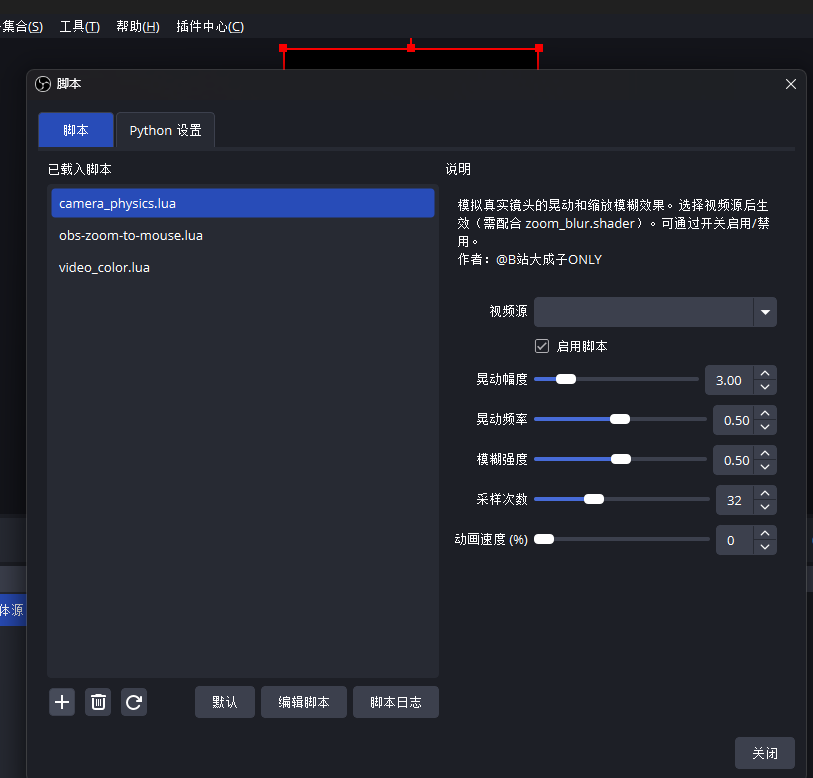
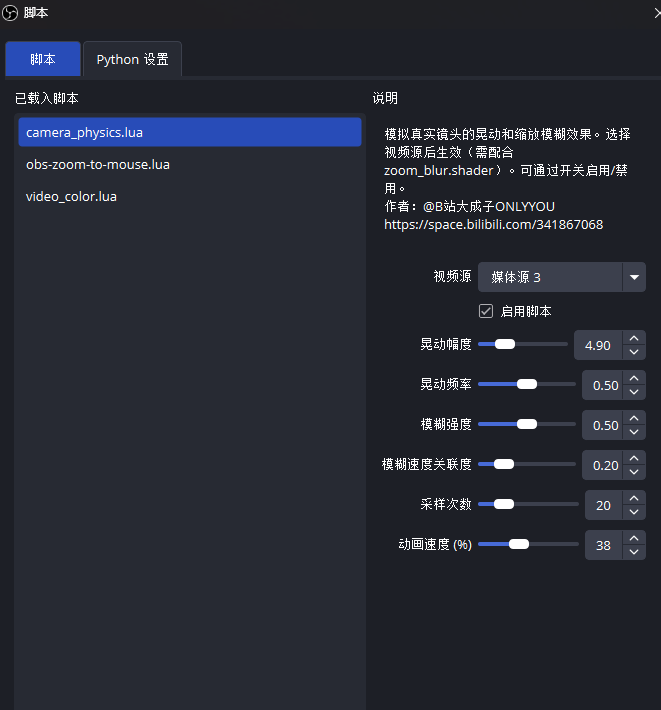
fix: 优化物理镜头的闪亮以及支持解耦晃动和模糊，晃动符合物理特性并增加文档

diff --git a/README.md b/README.md
@@ -7,22 +7,50 @@
 
 ## 功能描述 Features
 
-### camera_physics.lua
+### camera_physics.lua 模拟真实镜头的晃动和缩放模糊效果
+
+#### 功能概述
+此脚本为 OBS 添加了镜头晃动和动态模糊效果，适用于模拟手持相机或增强画面动感。晃动通过物理模型实现，模糊与晃动速度关联，并支持动画效果。
+
 - 模拟真实相机抖动效果
 - 可调节晃动幅度和频率
 - 支持缩放模糊效果
 - 提供开关控制，实时启用/禁用效果
+- 支持模糊和晃动解耦
 
-![camera_physics](https://cdn.z.wiki/autoupload/20250325/KLBl/813X778/camera-physics.png)
+![camera_physics](https://cdn.z.wiki/autoupload/20250325/uiIY/661X710/camera-physics.png)
 
-- 如何配合zoom_blur.shader 使用？ 
-  - 首先安装OBS ShaderFilter，可直接到releases界面使用exe文件进行安装。安装之后的路径在obs根目录下的[path\to\obs-studio\data\obs-plugins\obs-shaderfilter]
-  - zoom_blur.shader位于[path\to\obs-studio\data\obs-plugins\obs-shaderfilter\examples]
-  -在OBS里添加滤镜
-
+#### 安装步骤
+1. 将此脚本文件（.lua）加载到 OBS 的“脚本”菜单。
+2. 首先安装OBS ShaderFilter，可直接到releases界面使用exe文件进行安装。安装之后的路径在obs根目录下的[path\to\obs-studio\data\obs-plugins\obs-shaderfilter]，下载并安装配套的 zoom_blur.shader 文件（需放入 OBS 的 shader 目录（其实放哪都可以））。
+3. 在 OBS 中为目标视频源添加“用户定义的着色器”滤镜，命名为 "zoom_blur_filter"，并选择 zoom_blur.shader，shader已经进行特定场景优化，归一化颜色，可在发布界面进行获取！
 ![zoom_blur_shader](https://cdn.z.wiki/autoupload/20250325/ezcb/838X671/zoom-blur-shader.png)
+4. 在脚本属性中选择视频源并调整参数。
 
-### video_color.lua
+#### 参数说明
+- **视频源**: 选择需要应用效果的 OBS 源。
+- **启用脚本**: 开/关整个效果，默认开启。
+- **晃动幅度 (0-20)**: 控制画面偏移的大小，默认 3.0。值越大晃动越剧烈。
+- **晃动频率 (0.01-1.0)**: 控制晃动变化的快慢，默认 0.5。值越大晃动越频繁。
+- **模糊强度 (0-1)**: 基础模糊程度，默认 0.5。值越大画面越模糊。
+- **模糊速度关联度 (0-1)**: 模糊与晃动速度的关联强度，默认 0.2。设为 0 则模糊固定，1 则随速度增强。
+- **采样次数 (0-100)**: Shader 的模糊采样点数，默认 32。值越高模糊越细腻，但性能开销增加。
+- **动画速度 (%) (0-100)**: 控制模糊的动画速度，默认 0。值越大动画越快，0 表示无动画。
+
+#### 最佳实践
+1. **轻微晃动效果**: 推荐 `晃动幅度 = 1.0-3.0`，`模糊强度 = 0.3-0.5`，`模糊速度关联度 = 0.2-0.4`，`动画速度 = 0`，模拟自然手持镜头。
+2. **剧烈晃动效果**: 设置 `晃动幅度 = 5.0-10.0`，`模糊强度 = 0.7-1.0`，`模糊速度关联度 = 0.5-1.0`，适合动态场景。
+3. **动画增强**: 调高 `动画速度` 到 10-50，搭配较低 `采样次数`（如 16-32），避免性能问题。
+4. **性能优化**: 保持 `采样次数` 在 16-32 之间，高分辨率下避免超过 64，以维持帧率。
+5. **调试**: 启用脚本日志（OBS 脚本窗口），观察 "Dynamic blur" 和 "Speed" 值，确保效果符合预期。
+
+#### 注意事项
+- 确保视频源已添加名为 "zoom_blur_filter" 的 Shader 滤镜，否则模糊无效。
+- 高 `采样次数` 或 `动画速度` 可能增加 GPU 负载，低配设备需谨慎调整。
+- 若模糊不够强，可微调 `模糊速度关联度`，但避免过高以防画面过模糊。
+- 动画速度与晃动节奏独立，需手动协调以获得最佳效果。
+
+### video_color.lua 动态调整滤镜参数实现视频去重效果
 - 动态调整视频色彩参数
 - 参数范围可自定义
 - 支持平滑过渡效果
@@ -64,3 +92,6 @@
 
 ## 维护者 Maintainer
 B站： @大成子ONLYYOU https://space.bilibili.com/341867068
+
+加入知识星球获取更多好货
+![video_color](https://cdn.z.wiki/autoupload/20250325/2lGz/1125X1676/%E7%9F%A5%E8%AF%86%E6%98%9F%E7%90%83.jpg)
